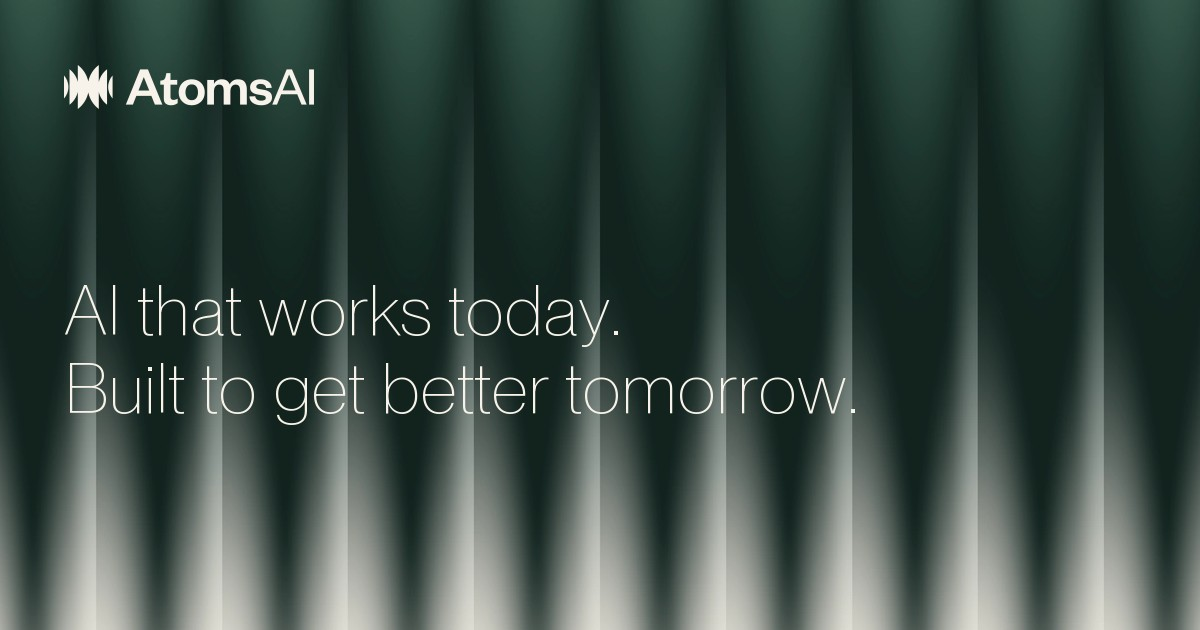
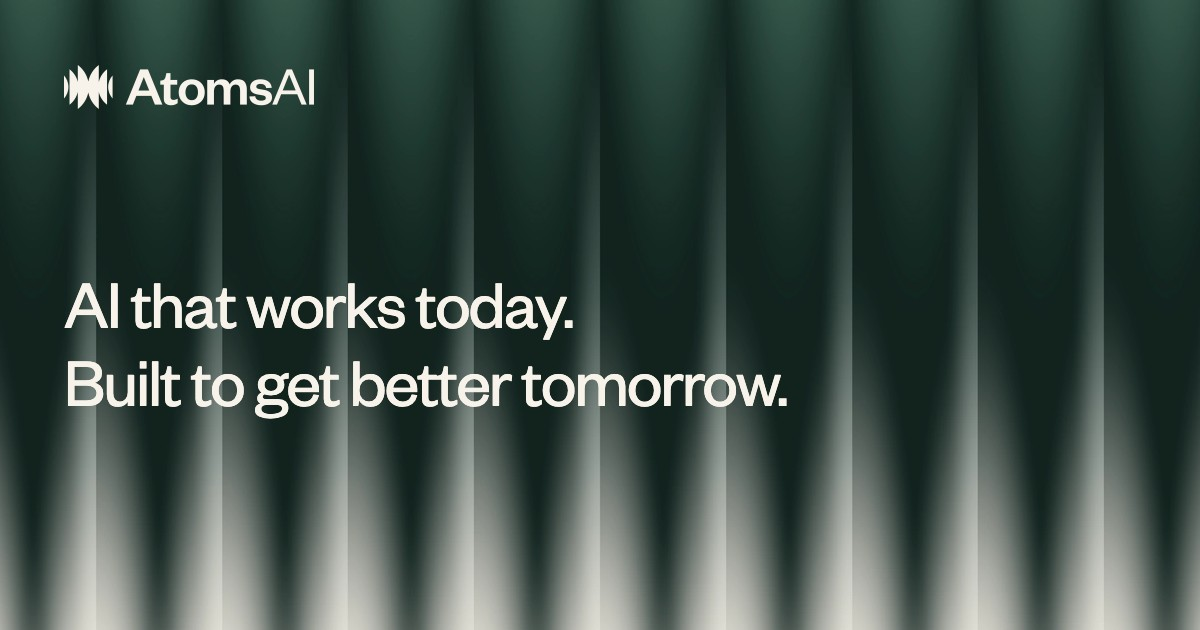
Match social card headline to the homepage display weight

Changed region(s): [[0.0308, 0.573, 0.7092, 0.6635], [0.0617, 0.4524, 0.5242, 0.5429]]

diff --git a/src/lib/share-metadata.ts b/src/lib/share-metadata.ts
@@ -16,7 +16,7 @@ export function shareMetadata({ path, title, description, article }: SharePage):
     url: publicUrl(article.artwork),
     alt: article.artworkAlt || `Cover artwork for ${title}`,
   } : {
-    url: publicUrl('/assets/brand/atomsai-share.jpg'),
+    url: publicUrl('/assets/brand/atomsai-share.jpg?v=2'),
     width: 1200,
     height: 630,
     type: 'image/jpeg',
